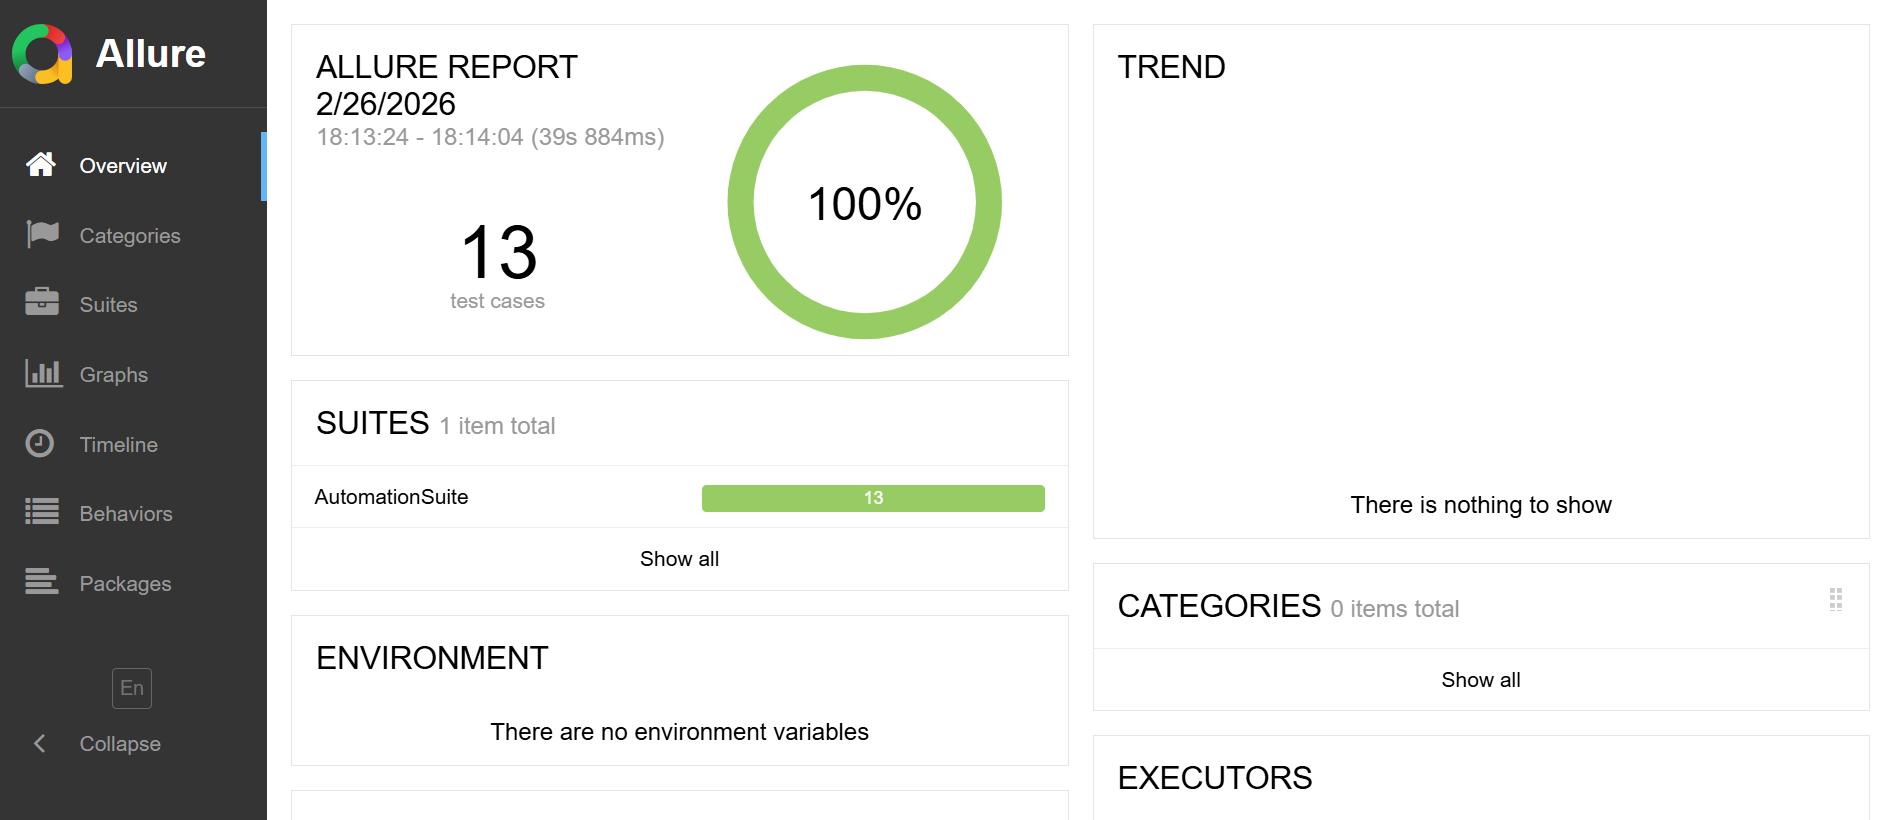
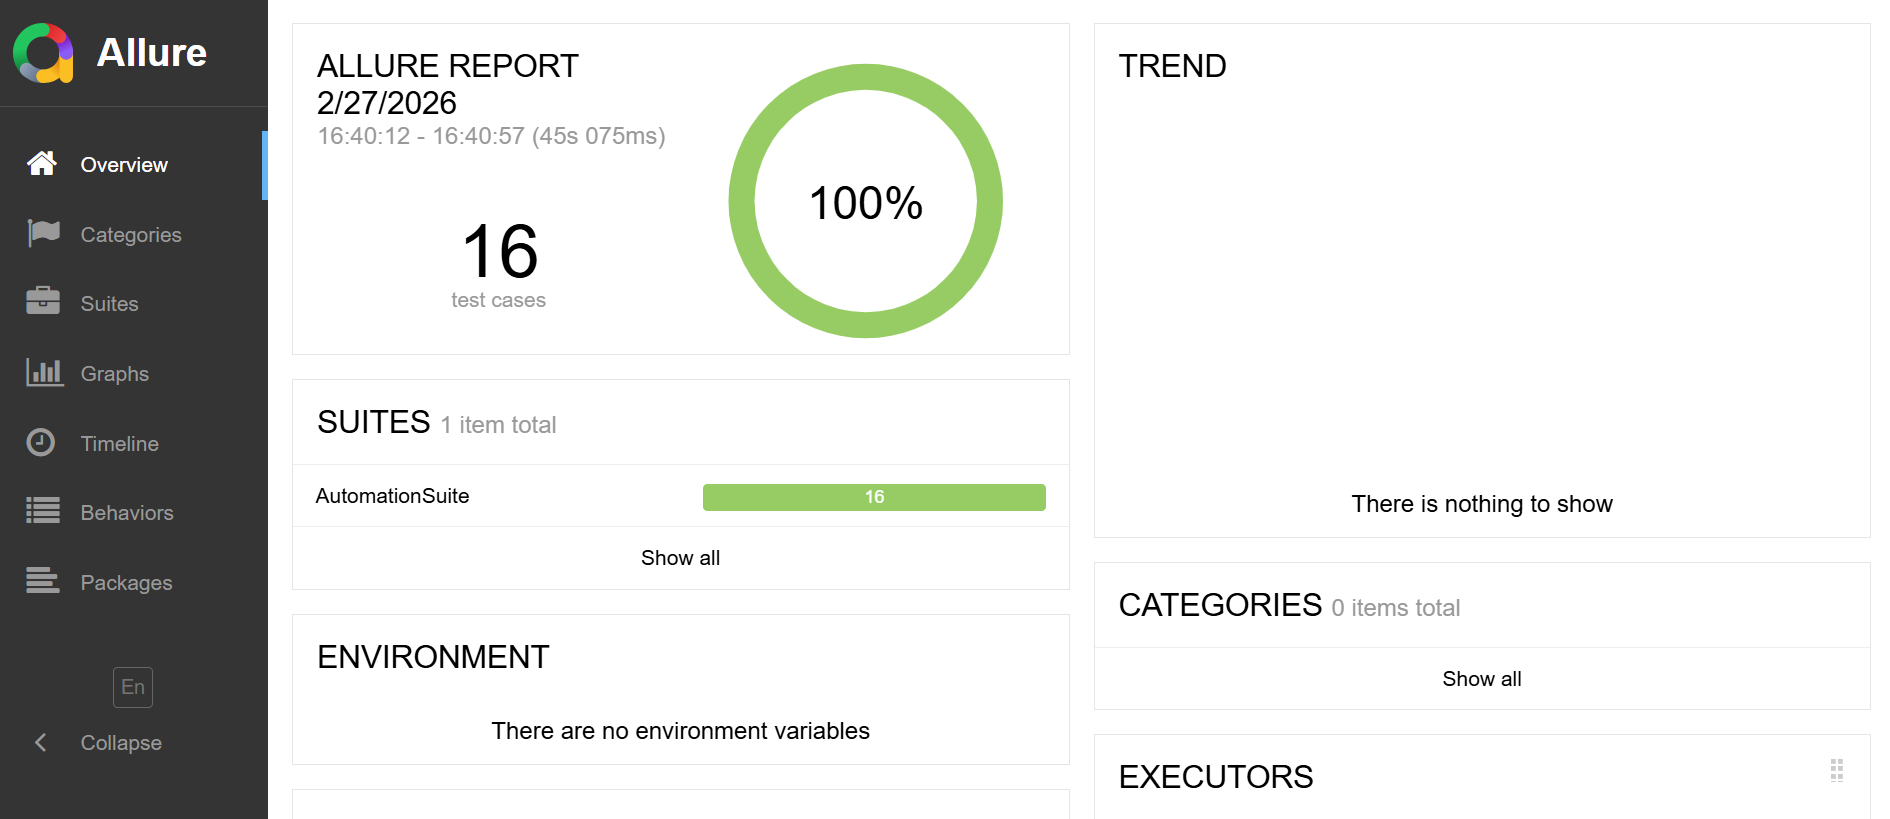
Day 19: BasePage enhancements, Exceptions module consistency upgrades, rawClick support for exception simulation, and full suite validation

diff --git a/src/test/java/tests/ExceptionsTest.java b/src/test/java/tests/ExceptionsTest.java
@@ -3,6 +3,7 @@ package tests;
 import base.BaseTest;
 import helpers.AssertionHelper;
 import io.qameta.allure.*;
+import org.openqa.selenium.ElementNotInteractableException;
 import org.testng.annotations.Test;
 import pages.ExceptionsPage;
 import pages.HomePage;
@@ -27,11 +28,8 @@ public class ExceptionsTest extends BaseTest {
     @Description("Verify that clicking Add eventually reveals Row 2 input field.")
     @Test
     public void testRow2AppearsAfterDelay() {
-
         ExceptionsPage page = navigateToExceptionsPage();
-
-        page.clickAddButton(); // waits internally for Row 2
-
+        page.clickAddButton();
         AssertionHelper.assertTrue(
                 page.isRow2InputVisible(),
                 "Row 2 input should be visible after clicking Add"
@@ -46,31 +44,46 @@ public class ExceptionsTest extends BaseTest {
     @Description("Verify that saving text in Row 2 works and avoids clicking invisible Save in Row 1.")
     @Test
     public void testSaveTextRow2() {
-
         ExceptionsPage page = navigateToExceptionsPage();
 
         page.clickAddButton()
                 .enterTextRow2("Adam Test")
                 .clickRow2Save();
 
-        String message = page.getConfirmationMessage();
-
         AssertionHelper.assertEquals(
-                message,
+                page.getConfirmationMessage(),
                 "Row 2 was saved",
                 "Confirmation message should match"
         );
+    }
+
+    @Story("Demonstrate ElementNotInteractableException")
+    @Description("Intentionally click the invisible Save button to show the exception behavior.")
+    @Test(expectedExceptions = ElementNotInteractableException.class)
+    public void testInvisibleSaveThrowsException() {
+        ExceptionsPage page = navigateToExceptionsPage();
+        page.clickInvisibleSaveButton();   // <-- FIXED: uses public wrapper
     }
 
     // ============================================================
     // Test Case 3: InvalidElementStateException (Row 1 disabled)
     // ============================================================
 
+    @Story("Row 1 disabled state")
+    @Description("Verify Row 1 is disabled before clicking Edit.")
+    @Test
+    public void testRow1IsDisabledInitially() {
+        ExceptionsPage page = navigateToExceptionsPage();
+        AssertionHelper.assertFalse(
+                page.isRow1InputEnabled(),
+                "Row 1 input should be disabled initially"
+        );
+    }
+
     @Story("Edit Row 1 input")
     @Description("Verify that editing Row 1 requires clicking Edit first.")
     @Test
     public void testEditRow1() {
-
         ExceptionsPage page = navigateToExceptionsPage();
 
         page.clickRow1Edit()
@@ -92,7 +105,6 @@ public class ExceptionsTest extends BaseTest {
     @Description("Verify that instructions text disappears after clicking Add.")
     @Test
     public void testInstructionsDisappear() {
-
         ExceptionsPage page = navigateToExceptionsPage();
 
         AssertionHelper.assertTrue(
@@ -100,11 +112,25 @@ public class ExceptionsTest extends BaseTest {
                 "Instructions should be visible initially"
         );
 
-        page.clickAddButton(); // instructions removed from DOM
+        page.clickAddButton();
 
         AssertionHelper.assertFalse(
                 page.isInstructionsDisplayed(),
                 "Instructions should disappear after clicking Add"
+        );
+    }
+
+    @Story("Instructions removed from DOM")
+    @Description("Verify instructions element is removed from DOM after clicking Add.")
+    @Test
+    public void testInstructionsRemovedFromDOM() {
+        ExceptionsPage page = navigateToExceptionsPage();
+
+        page.clickAddButton();
+
+        AssertionHelper.assertFalse(
+                page.isInstructionsPresentInDOM(),
+                "Instructions element should be removed from DOM"
         );
     }
 
@@ -116,7 +142,6 @@ public class ExceptionsTest extends BaseTest {
     @Description("Verify that a 3-second wait fails because Row 2 appears after ~5 seconds.")
     @Test
     public void testShortTimeoutFails() {
-
         ExceptionsPage page = navigateToExceptionsPage();
 
         boolean appeared = page.waitForRow2InputShortTimeout();

diff --git a/src/test/java/pages/ExceptionsPage.java b/src/test/java/pages/ExceptionsPage.java
@@ -40,7 +40,7 @@ public class ExceptionsPage extends BasePage {
     @Step("Click Add button")
     public ExceptionsPage clickAddButton() {
         click(addButton);
-        waitForVisibility(row2Input); // Row 2 appears after ~5 seconds
+        waitForVisibility(row2Input);
         return this;
     }
 
@@ -76,7 +76,7 @@ public class ExceptionsPage extends BasePage {
     @Step("Clear Row 1 input")
     public ExceptionsPage clearRow1Input() {
         waitForVisibility(row1Input);
-        driver.findElement(row1Input).clear();
+        clear(row1Input);
         return this;
     }
 
@@ -90,16 +90,41 @@ public class ExceptionsPage extends BasePage {
     @Step("Get value from Row 1 input")
     public String getRow1InputValue() {
         waitForVisibility(row1Input);
-        return driver.findElement(row1Input).getAttribute("value");
+        return getAttribute(row1Input, "value");
+    }
+
+    @Step("Check if Row 1 input is enabled")
+    public boolean isRow1InputEnabled() {
+        return driver.findElement(row1Input).isEnabled();
     }
 
     // ============================================================
-    // Visibility Checks
+    // Special Case: Invisible Save Button (Exception Test)
+    // ============================================================
+
+    @Step("Click invisible Save button (expected to throw ElementNotInteractableException)")
+    public ExceptionsPage clickInvisibleSaveButton() {
+        rawClick(By.name("Save")); // bypasses waitForClickable
+        return this;
+    }
+
+    // ============================================================
+    // Visibility & DOM Checks
     // ============================================================
 
     @Step("Check if instructions text is displayed")
     public boolean isInstructionsDisplayed() {
         return isElementVisible(instructionsText);
+    }
+
+    @Step("Check if instructions element is present in DOM")
+    public boolean isInstructionsPresentInDOM() {
+        return isElementPresent(instructionsText);
+    }
+
+    @Step("Wait for instructions text to disappear from DOM")
+    public boolean waitForInstructionsToDisappear() {
+        return wait.until(ExpectedConditions.invisibilityOfElementLocated(instructionsText));
     }
 
     @Step("Get confirmation message")

diff --git a/src/test/java/pages/BasePage.java b/src/test/java/pages/BasePage.java
@@ -92,6 +92,45 @@ public class BasePage {
     }
 
     // ============================================================
+    // NEW: Clear Helper
+    // ============================================================
+
+    protected void clear(By locator) {
+        waitForVisibility(locator);
+        driver.findElement(locator).clear();
+    }
+
+    // ============================================================
+    // NEW: Attribute Helper
+    // ============================================================
+
+    protected String getAttribute(By locator, String attribute) {
+        waitForVisibility(locator);
+        return driver.findElement(locator).getAttribute(attribute);
+    }
+
+    // ============================================================
+    // NEW: DOM Presence Helper
+    // ============================================================
+
+    protected boolean isElementPresent(By locator) {
+        try {
+            driver.findElement(locator);
+            return true;
+        } catch (NoSuchElementException e) {
+            return false;
+        }
+    }
+
+    // ============================================================
+    // NEW: Raw Click (no waits, used for exception tests)
+    // ============================================================
+
+    protected void rawClick(By locator) {
+        driver.findElement(locator).click();
+    }
+
+    // ============================================================
     // JavaScript Helpers
     // ============================================================
 

diff --git a/README.md b/README.md
@@ -495,6 +495,25 @@ The Exceptions module is now fully integrated, stable, and production‑ready. T
 
 ---
 
+### **Day 19 — Exceptions Module Enhancements + Framework Consistency Upgrades**
+Today’s work focused on elevating the Exceptions module from “functionally complete” to “architecturally consistent” with the rest of the framework. This meant aligning all Page Object interactions with the BasePage API, expanding BasePage with missing universal helpers, and refining the exception‑simulation test to behave exactly as Selenium does in real‑world scenarios.
+
+A key part of today’s work was ensuring that the framework could intentionally reproduce Selenium exceptions *without* compromising the safety and consistency of normal interactions. To achieve this, a new `rawClick()` method was added to BasePage, allowing the framework to bypass wait conditions only when explicitly required for exception testing.
+
+**Key Achievements**
+- Added three foundational helpers to `BasePage` (`clear`, `getAttribute`, `isElementPresent`) to ensure full consistency across all Page Objects
+- Introduced `rawClick()` to safely simulate Selenium exceptions without affecting standard click behavior
+- Updated `ExceptionsPage` to use the new helpers and expose a clean `clickInvisibleSaveButton()` method for controlled exception testing
+- Updated `ExceptionsTest` to rely solely on Page Object methods, maintaining proper encapsulation and avoiding protected BasePage calls
+- Validated all five exception scenarios with accurate Selenium behavior, including the corrected `ElementNotInteractableException` test
+- Executed the full suite with **100% passing tests** and verified clean Allure reporting
+- Confirmed Allure report generation via both Maven (`allure:aggregate`) and CLI (`allure serve target/allure-results`)
+
+**Outcome:**  
+The Exceptions module is now fully aligned with the framework’s architecture, using consistent BasePage utilities and clean Page Object abstractions. Exception simulation is accurate, intentional, and isolated, while normal test flows remain safe and stable. With all enhancements complete, the framework now demonstrates production‑grade consistency, clarity, and maintainability across every module.
+
+---
+
 ### 🚧 Upcoming Enhancements (Planned)
 
 ### Table Module
